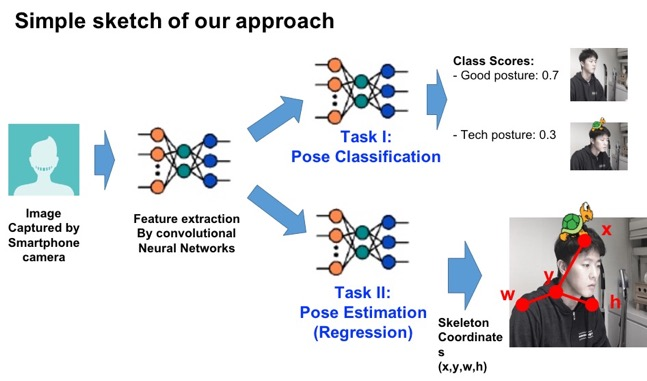
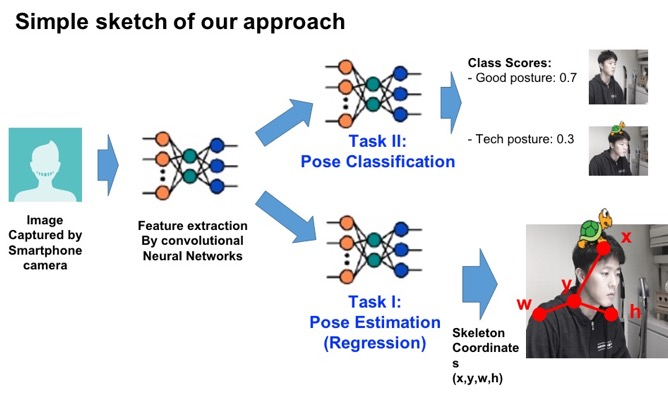
(add) readme. md incorrect expression fix. images/approach.jpg fix

diff --git a/readme.md b/readme.md
@@ -21,8 +21,8 @@ If you are working in an overhanging posture, you will be alerted to maintain a 
 
 ### Our Solution Approach
 - A Classification + estimation approach
-    - Pose Estimation Task: Neck pose estimation from CNN features using four joint positions of human body: head, neck, right shoulder, left shoulder
-    - Pose Classification task: Classification whether neck posture is neck tech from CNN features.
+    - TASK1: Pose Estimation Task: Neck pose estimation from CNN features using four joint positions of human body: head, neck, right shoulder, left shoulder
+    - TASK2: Pose Classification task: Classification whether neck posture is neck tech from CNN features.
 
 
 ![alt text](https://github.com/MachineLearningOfThings/smile-turtle-proj/blob/develop/images/approach.jpg)
